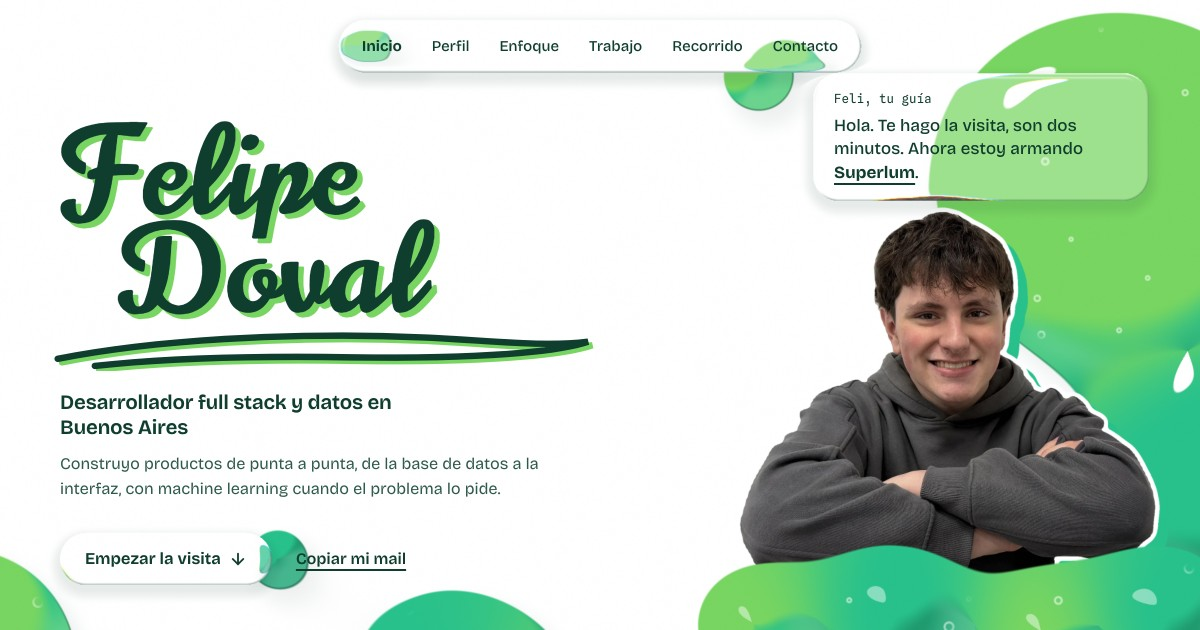
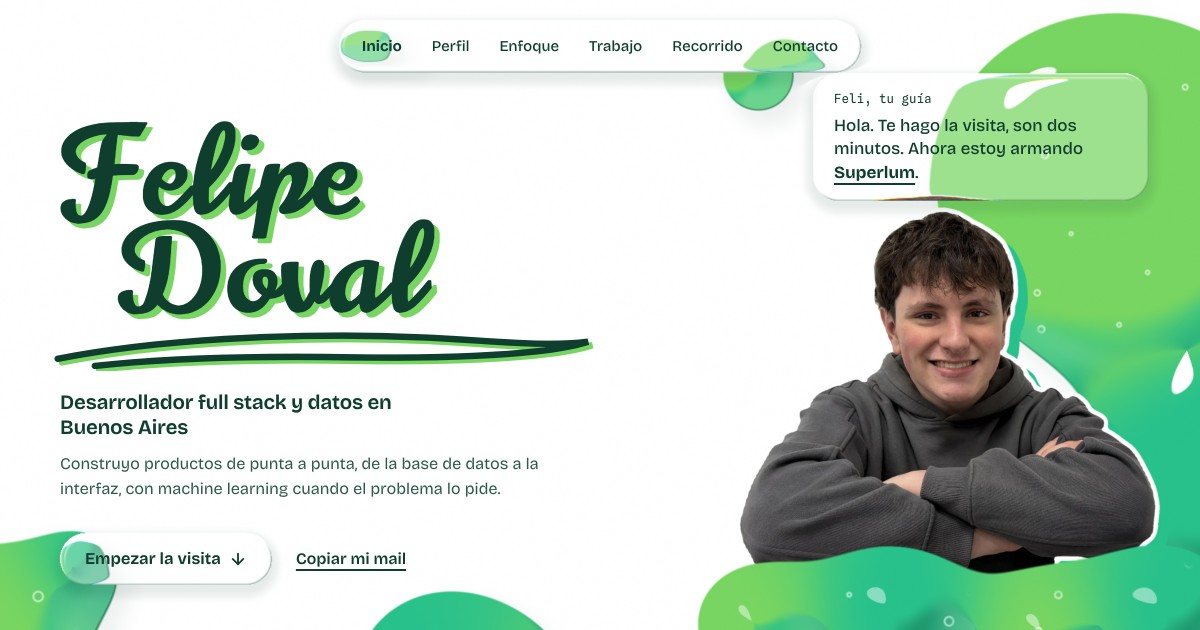
v6.0 — Visita guiada: líquido, vidrio en el shader y Feli de guía
Rediseño completo según el mood board de Felipe. Uniforms empaquetados para
iPhones viejos, el huevo de pascua fuera del orden de Tab, Escape devuelve el
foco en la hoja de paradas, y la entrada v6.0 en DECISIONS.md.

Auditoría 33/33 · idioma 12/12 · celular 9/9 · animación 2/2 · smoke 3/3.

Claude-Session: https://claude.ai/code/session_017SnEjfCUwfqT28N6dShURP

diff --git a/lib/escena/shader.ts b/lib/escena/shader.ts
@@ -35,15 +35,17 @@ uniform float uTime;
 uniform float uU;       // unidad de escala (≈ lado corto / 1000)
 uniform float uQ;       // calidad: 1 alto, 0 bajo
 uniform float uK;       // suavidad de la unión (smin)
-uniform vec4 uB[${MAX_GOTAS}];   // x, y, radio, tono (0 lima .. 1 jade)
-uniform float uBL[${MAX_GOTAS}]; // capa: 0 fondo, 1 pileta (delante de Feli)
+// x, y, radio, tono + 2·capa (tono 0 lima .. 1 jade; capa 0 fondo, 1 pileta
+// delante de Feli). La capa va empaquetada en w para ahorrar uniforms: WebGL 1
+// garantiza muy pocos y los iPhone viejos dan 64 vectores en total.
+uniform vec4 uB[${MAX_GOTAS}];
 uniform int uNB;
 uniform vec4 uNav;      // cápsula bajo el link activo: cx, cy, medio largo, radio
 uniform vec4 uR[${MAX_VIDRIOS}];  // vidrio: x, y, w, h
 uniform vec4 uRX[${MAX_VIDRIOS}]; // radio, presión, barrido, 0
 uniform int uNR;
 uniform vec4 uF[2];     // Feli: x, y, w, h (w = 0 → apagado)
-uniform float uFS[2];   // cuánto está hundido (px)
+uniform vec2 uFS;       // cuánto está hundido cada uno (px)
 uniform sampler2D uT0;
 uniform sampler2D uT1;
 
@@ -64,9 +66,10 @@ vec2 campo(vec2 p, float capa){
   vec2 r = vec2(1e5, 0.);
   for (int i = 0; i < ${MAX_GOTAS}; i++){
     if (i >= uNB) break;
-    if (abs(uBL[i] - capa) > .5) continue;
     vec4 b = uB[i];
-    r = sminC(r, length(p - b.xy) - b.z, b.w, uK);
+    float c = floor(b.w * .5);
+    if (abs(c - capa) > .5) continue;
+    r = sminC(r, length(p - b.xy) - b.z, b.w - 2. * c, uK);
   }
   if (capa < .5 && uNav.w > 0.){
     float d = length(vec2(max(abs(p.x - uNav.x) - uNav.z, 0.), p.y - uNav.y)) - uNav.w;
@@ -134,7 +137,7 @@ vec4 muestraT(int i, vec2 q){
 
 void feli(vec2 p, int i, inout vec3 col){
   vec4 r = i == 0 ? uF[0] : uF[1];
-  float hundido = i == 0 ? uFS[0] : uFS[1];
+  float hundido = i == 0 ? uFS.x : uFS.y;
   if (r.z < 1. || p.y > r.y + r.w || p.y < r.y - 20.) return;
   vec2 q = (p - r.xy - vec2(0., hundido)) / r.zw;
   // la foto no puede asomar por debajo de su base (la tapa la pileta)

diff --git a/lib/escena/motor.ts b/lib/escena/motor.ts
@@ -14,8 +14,7 @@ export type Cuadro = {
   tiempo: number;
   u: number;
   calidad: 0 | 1;
-  gotas: Float32Array; // MAX_GOTAS * 4
-  capas: Float32Array; // MAX_GOTAS
+  gotas: Float32Array; // MAX_GOTAS * 4 (w = tono + 2·capa)
   nGotas: number;
   nav: [number, number, number, number];
   vidrios: Float32Array; // MAX_VIDRIOS * 4
@@ -27,10 +26,10 @@ export type Cuadro = {
 };
 
 const NOMBRES = [
-  "uRes", "uScale", "uTime", "uU", "uQ", "uK", "uB", "uBL", "uNB", "uNav",
+  "uRes", "uScale", "uTime", "uU", "uQ", "uK", "uB", "uNB", "uNav",
   "uR", "uRX", "uNR", "uF", "uFS", "uT0", "uT1",
 ] as const;
-const ARRAYS = new Set(["uB", "uBL", "uR", "uRX", "uF", "uFS"]);
+const ARRAYS = new Set(["uB", "uR", "uRX", "uF"]);
 
 export class Motor {
   private gl: WebGLRenderingContext;
@@ -150,14 +149,13 @@ export class Motor {
     gl.uniform1f(u.uQ, c.calidad);
     gl.uniform1f(u.uK, 34 * c.u);
     gl.uniform4fv(u.uB, c.gotas);
-    gl.uniform1fv(u.uBL, c.capas);
     gl.uniform1i(u.uNB, Math.min(c.nGotas, MAX_GOTAS));
     gl.uniform4f(u.uNav, ...c.nav);
     gl.uniform4fv(u.uR, c.vidrios);
     gl.uniform4fv(u.uRX, c.vidriosX);
     gl.uniform1i(u.uNR, Math.min(c.nVidrios, MAX_VIDRIOS));
     gl.uniform4fv(u.uF, c.feli);
-    gl.uniform1fv(u.uFS, c.hundido);
+    gl.uniform2f(u.uFS, c.hundido[0], c.hundido[1]);
     for (let i = 0; i < 2; i++) {
       const src = c.texturas[i];
       const e = src ? this.texturas.get(src) : undefined;

diff --git a/components/layout/Nav.tsx b/components/layout/Nav.tsx
@@ -30,10 +30,15 @@ export function Nav() {
   const { scrollTo } = useSmoothScroll();
   const [abierta, setAbierta] = useState(false);
   const hoja = useRef<HTMLDivElement>(null);
+  const boton = useRef<HTMLButtonElement>(null);
 
   useEffect(() => {
     if (!abierta) return;
-    const esc = (e: KeyboardEvent) => e.key === "Escape" && setAbierta(false);
+    const esc = (e: KeyboardEvent) => {
+      if (e.key !== "Escape") return;
+      setAbierta(false);
+      boton.current?.focus();
+    };
     window.addEventListener("keydown", esc);
     hoja.current?.querySelector<HTMLElement>("a")?.focus();
     return () => window.removeEventListener("keydown", esc);
@@ -104,6 +109,7 @@ export function Nav() {
           </span>
           <button
             type="button"
+            ref={boton}
             onClick={() => setAbierta((v) => !v)}
             aria-expanded={abierta}
             aria-controls="hoja-paradas"

diff --git a/components/escena/Escena.tsx b/components/escena/Escena.tsx
@@ -215,7 +215,6 @@ export function Escena() {
     const estados = new Map<string, EstadoGota>();
     const hundEgg = new WeakMap<HTMLElement, number>();
     const gotas = new Float32Array(MAX_GOTAS * 4);
-    const capas = new Float32Array(MAX_GOTAS);
     const vr = new Float32Array(MAX_VIDRIOS * 4);
     const vx = new Float32Array(MAX_VIDRIOS * 4);
     const fe = new Float32Array(8);
@@ -253,8 +252,7 @@ export function Escena() {
         gotas[n * 4] = x;
         gotas[n * 4 + 1] = y;
         gotas[n * 4 + 2] = r;
-        gotas[n * 4 + 3] = tono;
-        capas[n] = capa;
+        gotas[n * 4 + 3] = tono + 2 * capa;
         n++;
       };
 
@@ -397,7 +395,6 @@ export function Escena() {
         u,
         calidad: nivel === "alto" ? 1 : 0,
         gotas,
-        capas,
         nGotas: n,
         nav,
         vidrios: vr,

diff --git a/components/guia/Feli.tsx b/components/guia/Feli.tsx
@@ -63,7 +63,11 @@ export function Feli({
     <button
       type="button"
       onClick={tocar}
-      aria-label={g.ariaTocar}
+      // Es un juego para mouse y dedo (el huevo de pascua), no navegación:
+      // fuera del orden de Tab y del árbol de accesibilidad. Lo que dice Feli
+      // al tocarlo igual se anuncia por la región aria-live del globo.
+      tabIndex={-1}
+      aria-hidden
       data-feli
       data-pose-src={p.src}
       data-intro={intro ? "" : undefined}

diff --git a/components/secciones/Inicio.tsx b/components/secciones/Inicio.tsx
@@ -49,7 +49,7 @@ export function Inicio() {
                 if (destino) scrollTo(destino);
               }}
               data-vidrio
-              data-gotas="1.02 0.78 34 1"
+              data-gotas="0.1 0.95 32 1"
               className="vidrio vidrio-pildora boton-vidrio"
             >
               {t.hero.empezar}

diff --git a/DECISIONS.md b/DECISIONS.md
@@ -3,8 +3,105 @@
 Registro de las decisiones no triviales del proyecto (diseño, arquitectura,
 dependencias y bugs). Se actualiza en cada fase.
 
-> La sección **v5.17.10** es la vigente. Debajo quedan v3.2, v3.1, v3.0, v2.x y
-> la v1 como registro histórico.
+> La sección **v6.0** es la vigente (rediseño completo «Visita guiada»). Debajo
+> queda toda la historia: v5.x (el sol en el estudio blanco), v4, v3, v2 y v1.
+> Las notas de la v6 también están en `obsidian/Portfolio/`.
+
+---
+
+## v6.0 — «Visita guiada»: el líquido, el vidrio en el shader y Feli de guía
+
+### El pedido
+Felipe pidió **cambiar por completo** el portfolio a partir de su mood board de
+Figma (*Mood Board Portfolio*): "3D Objects de fondo o burbujas", "fotos mías
+guiando al usuario a través del portfolio", los colores **`#78D561` · blanco ·
+`#28C18C`** y "que fuese como liquid glass, que los objetos de fondo sean como
+burbujas o líquido espeso que se mueve flotando". Más una script retro de
+cartel (la del screenshot "Artisan Script"). Innovador, dinámico, divertido, y
+que **no parezca hecho con IA**.
+
+### Cómo se decidió
+1. **Análisis** del repo, de las 17 versiones de este archivo (las reglas de
+   gusto de Felipe siguen valiendo: sin glow, sin rgba en texto, sin rayas,
+   sin viñetas, nada inventado) y de referencias.
+2. **Cuatro conceptos prototipados** de verdad (WebGL crudo, vidrio real, la
+   script y los recortes): *Lima-limón* (gaseosa de barrio), *Pecera* (el
+   líquido como juguete), *Visita guiada* y *Filete y vidrio* (fileteado
+   porteño). **Ganó Visita guiada** por claridad (un recruiter entiende en 10 s
+   quién es, qué hace y cómo escribirle) y porque el guía es lo único que un
+   template no puede copiar. Injertos: la sombra dura y el filete bajo el
+   nombre (Lima-limón) y el líquido que se empuja y se estira (Pecera). Se
+   sacó el selector de idioma del prototipo: el idioma sigue siendo automático.
+
+### La tipografía: Doval Script (no un calco)
+Artisan Script es de **HRDR, comercial** (~USD 19 desktop). No se calcó del
+screenshot (es el trabajo vendido de un diseñador, y en un JPG hay ~10 letras).
+Se hizo una propia: **derivada de Norican** (Vernon Adams, SIL OFL 1.1, sin
+RFN), elegida entre 21 familias libres; engrosada 32/18 u., enderezada 4°,
+finales de palabra por `calt` y 53 finales acentuadas para el español. OTF/TTF
+para la Mac y Figma en `brand/tipografia/`, WOFF2 para la web.
+
+### La escena
+Un solo `<canvas>` fijo, **WebGL 1 crudo** (fuera three.js, react-three,
+drei, postprocessing y motion), una pasada de pantalla completa:
+papel → líquido → **Feli** → pileta → **vidrio**.
+- **Líquido "pintado", no plástico:** metaballs 2D con `smin` cuadrático de k
+  bajo (se separan con cuello), normal de hemisferio continua, dos bandas
+  lima/jade con terminador corto, especular blanco duro, filete tinta del lado
+  en sombra y burbujas de gas. Una sola luz, arriba a la izquierda.
+- **Las gotas se declaran en el DOM** (`data-gotas="fx fy r tono [capa]"`,
+  ancladas a la caja del elemento; `data-gotas-m` para celular).
+- **El vidrio se pinta en el shader:** dentro de cada `data-vidrio` se muestrea
+  la escena desplazada (bisel + leve magnificación + aberración cromática en el
+  canto). Reemplaza al filtro SVG de la v5, que sólo andaba en Chromium y era
+  el 78 % del costo del cuadro. Se conservaron el canto cian, el vidrio que se
+  hunde y el barrido especular.
+- **Feli adentro del shader:** así la pileta tapa el corte de la foto y él
+  sube del líquido al llegar a su parada. En el DOM, un botón con la caja exacta.
+- Interacción: el cursor **empuja** las gotas; en desktop se pueden **agarrar,
+  estirar y partir**. Huevo de pascua: tocar a Feli cinco veces ("Ahora vuelvo").
+- Lectura de rects con getBoundingClientRect en cada cuadro, corriendo en el
+  ticker de GSAP **después de Lenis** (que ahora se agrega con prioridad): si
+  no, el vidrio del shader iba un cuadro atrás del borde del DOM al scrollear.
+- **Uniforms empaquetados** (la capa va en `w` junto con el tono): WebGL 1 en
+  iPhones viejos da 64 vectores; quedó en ~48.
+
+### Robustez
+- Sin WebGL o equipo que no llega (`lib/rendimiento.ts` → mínimo): `data-escena
+  ="poster"` → póster renderizado del propio shader, Feli como `<img>` con la
+  sombra por CSS y **vidrio sólido** (nunca un blur que finja ser vidrio).
+- Software rendering → escalón bajo de entrada (escala 0,6, sin extras).
+- **Reducir movimiento:** las gotas no flotan solas, pero todo lo que sigue al
+  scroll sigue igual (lección v5.17.2). Si no pasa nada en 1,5 s, ni se
+  redibuja. En reposo normal, mitad de cuadros.
+- Contraste alto / colores forzados / transparencia reducida: vidrio sólido.
+
+### Bugs de la v5 arreglados de paso (todos verificados antes)
+Preloader trabado al volver de un caso (se eliminó el preloader) · el mail
+estaba en el HTML estático (ahora se arma en el clic) · sin `<main>` · "Saltar
+al contenido" apuntaba a un id que no existía en los casos · el foco no pasaba
+al contenido al navegar con teclado · la nav eran botones (ahora anclas:
+`/#trabajo` se comparte) · los casos se compartían con la tarjeta de la home ·
+404 con el nombre dos veces · año del footer horneado · Konami más rápido a
+120 Hz · scripts de test colgados fuera de Windows (`taskkill`).
+
+### Números
+- `public/`: 5,9 MB → **1,6 MB**. Seis dependencias menos.
+- Imagen al compartir: 114 KB, captura real del inicio.
+
+### Verificación
+`gate` 0 errores · `smoke` 3/3 rutas sin errores de consola (escritorio y
+393×659) · `audit` **33/33** (sin WebGL, teclado y foco, mail fuera del HTML,
+palabra prohibida, rayas, huevo de pascua, reduced-motion) · `idioma` 12/12 ·
+`touch` 9/9 · `anim` 2/2. Revisión visual de las seis paradas, los casos y el
+404 en 1440×900 y 393×659. El frame time bajo SwiftShader no es representativo
+(misma parada entre 17 y 99 ms según la carga): **falta medir en hardware
+real** (TODO-FELI).
+
+### Pendiente de Felipe
+La **sesión de fotos** (guion completo en
+`obsidian/Portfolio/la-sesion-de-fotos-es-un-guion-no-un-book.md`): hoy el guía
+usa los 4 recortes viejos como interinos.
 
 ---
 
